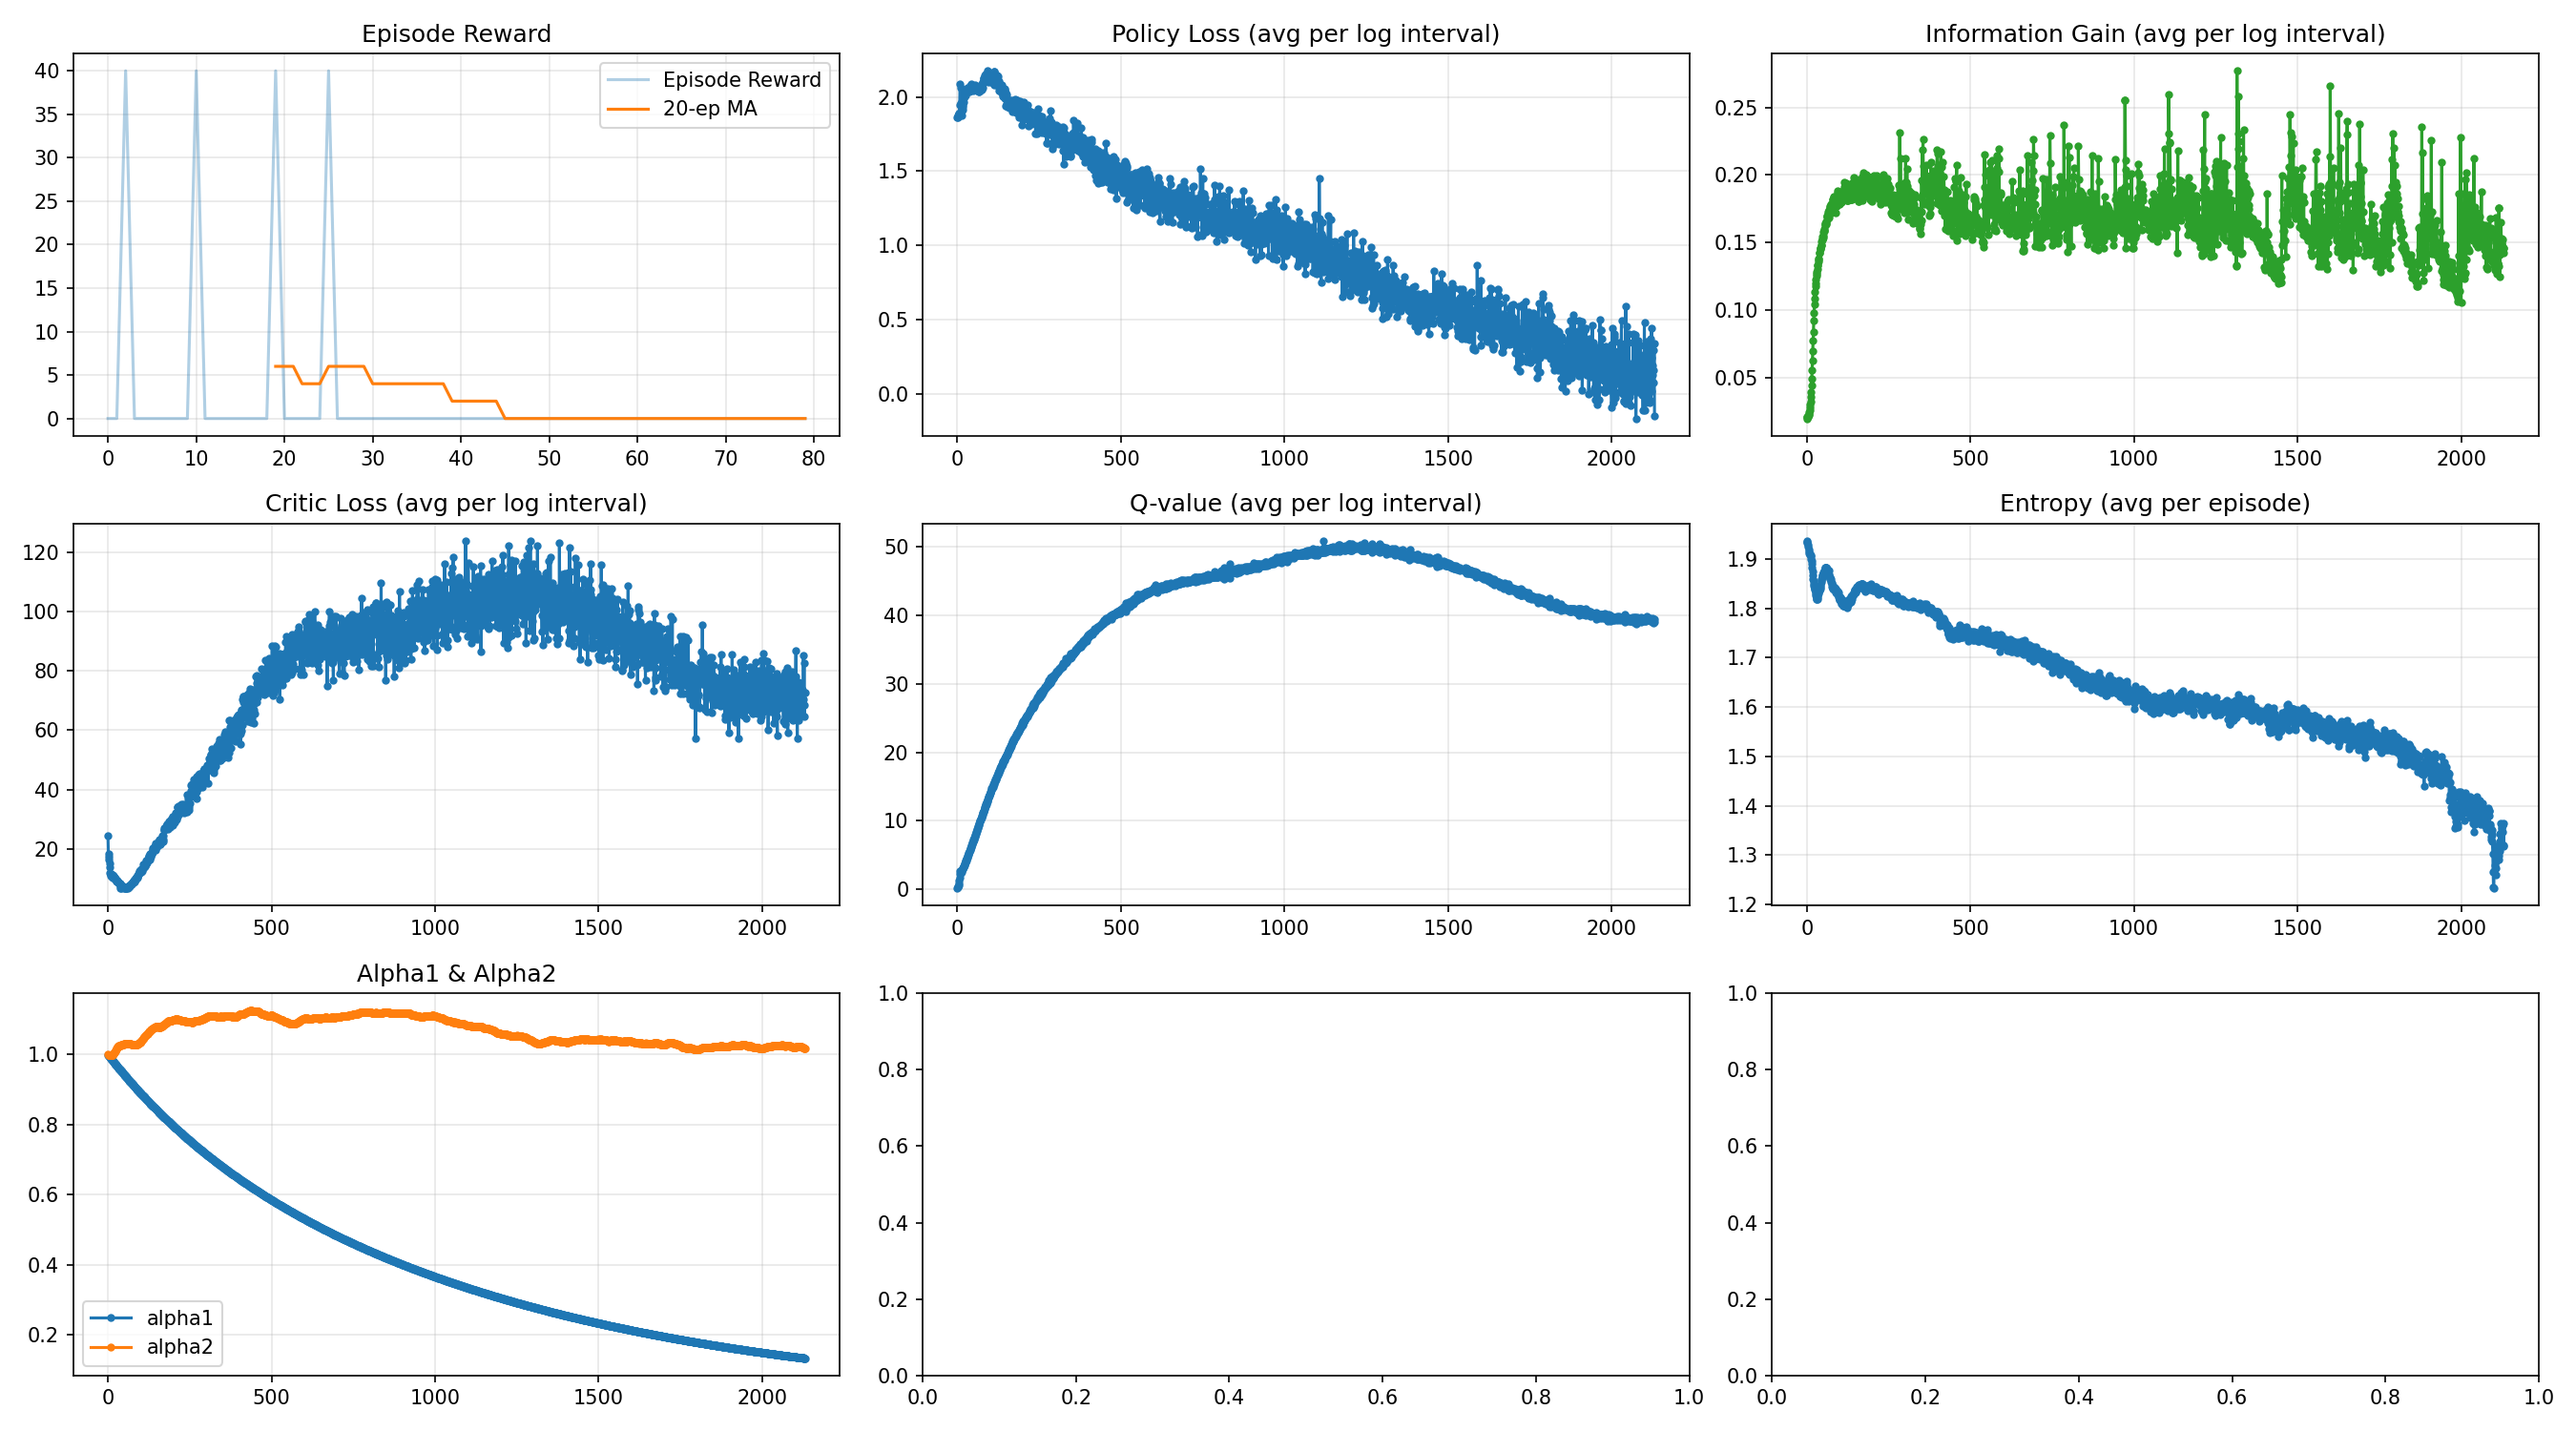
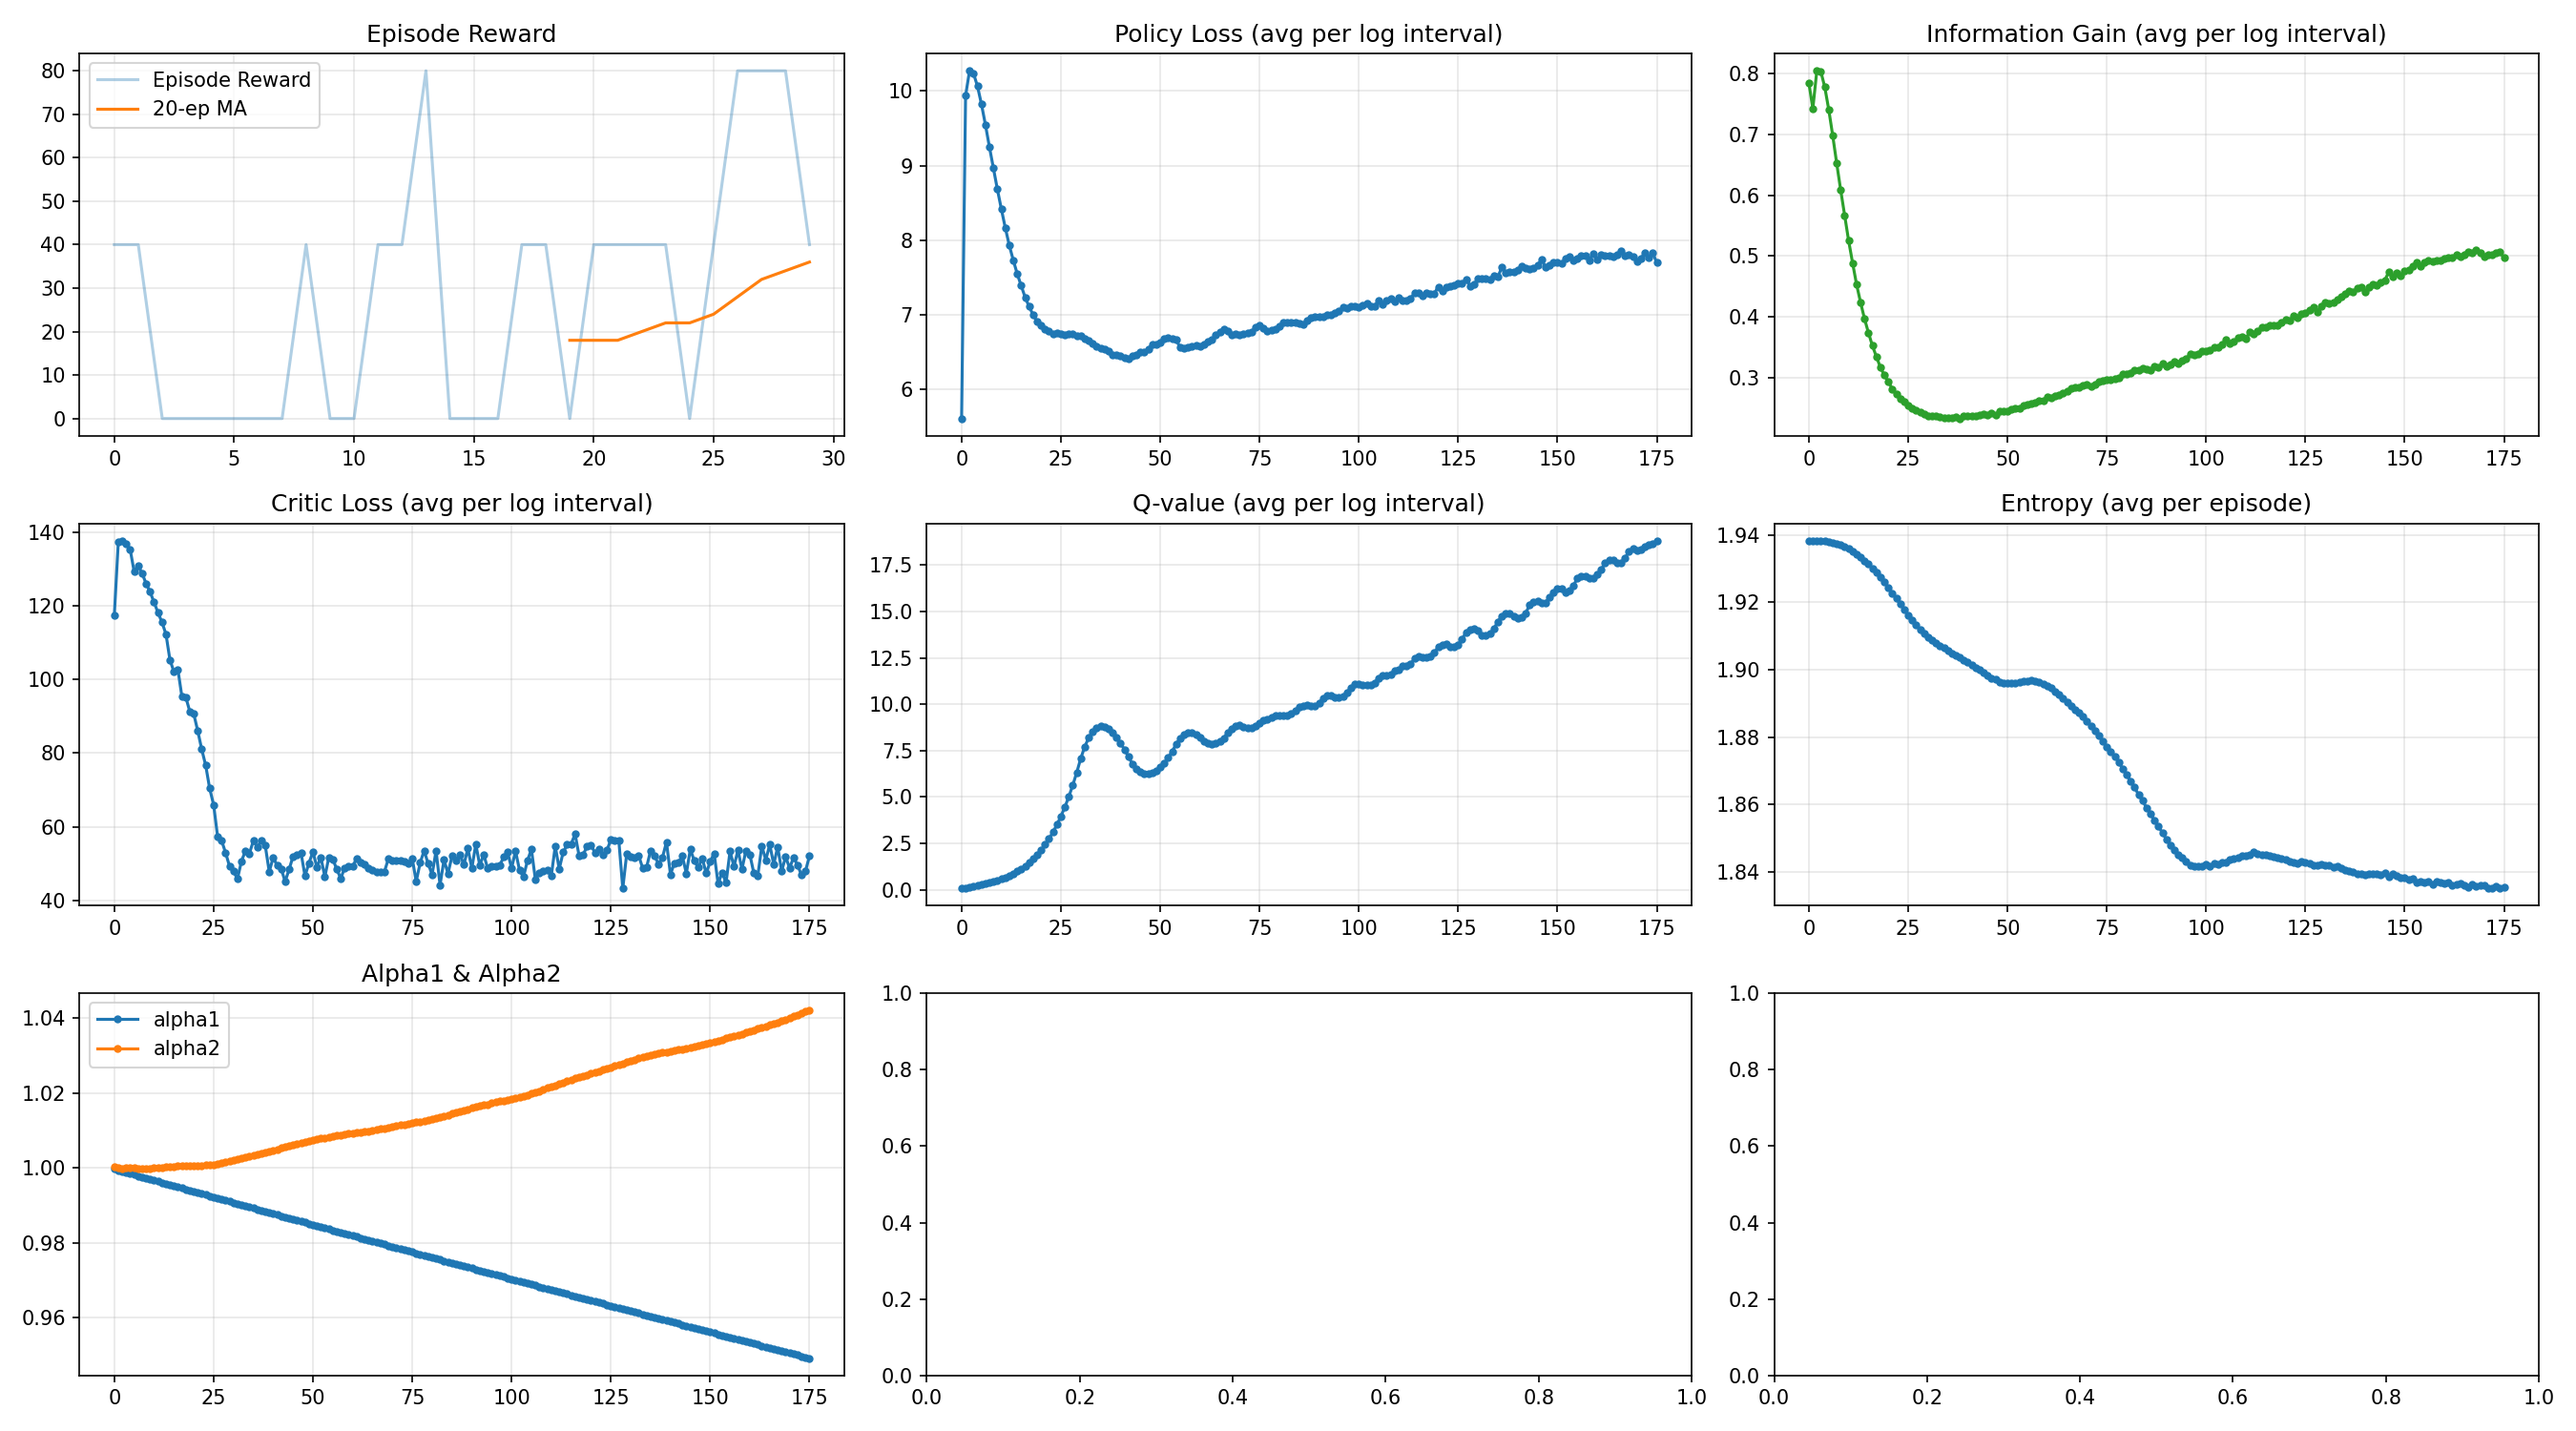
multiagent

diff --git a/CMASAC.py b/CMASAC.py
@@ -84,7 +84,7 @@ class Critic(nn.Module):
 		"""
 		x = F.relu(self.conv1(state))
 		x = F.relu(self.conv2(x))
-		x = x.view(x.size(0), -1)
+		x = x.reshape(x.size(0), -1)
 		return x
 	def forward(self, state, actions):
 		"""
@@ -104,7 +104,7 @@ class Critic(nn.Module):
 			actions_oh = actions.float()
 		else:
 			raise ValueError(f"Unexpected actions shape: {actions.shape}")
-		actions_flat = actions_oh.view(B, -1)
+		actions_flat = actions_oh.reshape(B, -1)
 		joint = torch.cat([embed, actions_flat], dim=1)
 		x1 = F.relu(self.q1_fc1(joint))
 		x1 = F.relu(self.q1_fc2(x1))
@@ -191,7 +191,7 @@ class SAC_REINFORCE:
 			self.alpha2 = alpha2
 		
 		self.input_ensemble_shape = state_shape[0] * state_shape[1] * state_shape[2] + action_dim * num_agents
-		self.output_ensemble_shape = state_shape[0] * state_shape[1] * state_shape[2] * num_agents
+		self.output_ensemble_shape = state_shape[0] * state_shape[1] * state_shape[2]
 		self.ensemble_regressor = EnsembleRegressor(in_dim=self.input_ensemble_shape, out_dim=self.output_ensemble_shape, M=5, hidden=256, device=self.device)
 		self.ensemble_regressor.setup_optimizers(3e-4)
 
@@ -245,7 +245,7 @@ class SAC_REINFORCE:
 		ensemble_input_norm = self.input_normalizer.normalize(ensemble_input)
 		
 		mean_ens, var_total, std_total, std_ale, std_epi = self.ensemble_regressor.mixture_mean_var(ensemble_input_norm, return_decomposed=True)
-		info_gain = torch.sum(torch.log(1 + (std_epi ** 2) / (std_ale ** 2 + 1e-8)), dim=-1, keepdim=True) * 0.001
+		info_gain = torch.sum(torch.log(1 + (std_epi ** 2) / (std_ale ** 2 + 1e-8)), dim=-1, keepdim=True) * 0.01
 		
 		info_gain = self.information_bonus_normalizer.normalize(info_gain) 
 		

diff --git a/run_CMASAC.py b/run_CMASAC.py
@@ -16,8 +16,8 @@ try:
 except Exception:
 	imageio = None
 def run_training(
-	env_id='MultiGrid-MultiTargetEmpty-5x5-v0',
-	num_agents=1,
+	env_id='MultiGrid-MultiTargetEmpty-8x8-v0',
+	num_agents=3,
 	episodes=5000,
 	steps_per_episode=40,
 	replay_size=int(1e6),
